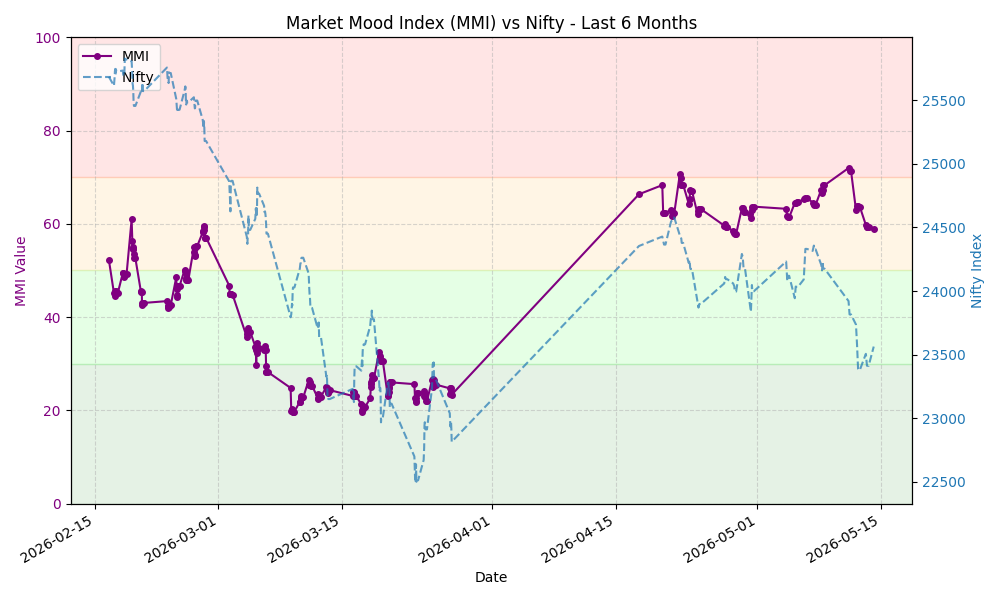
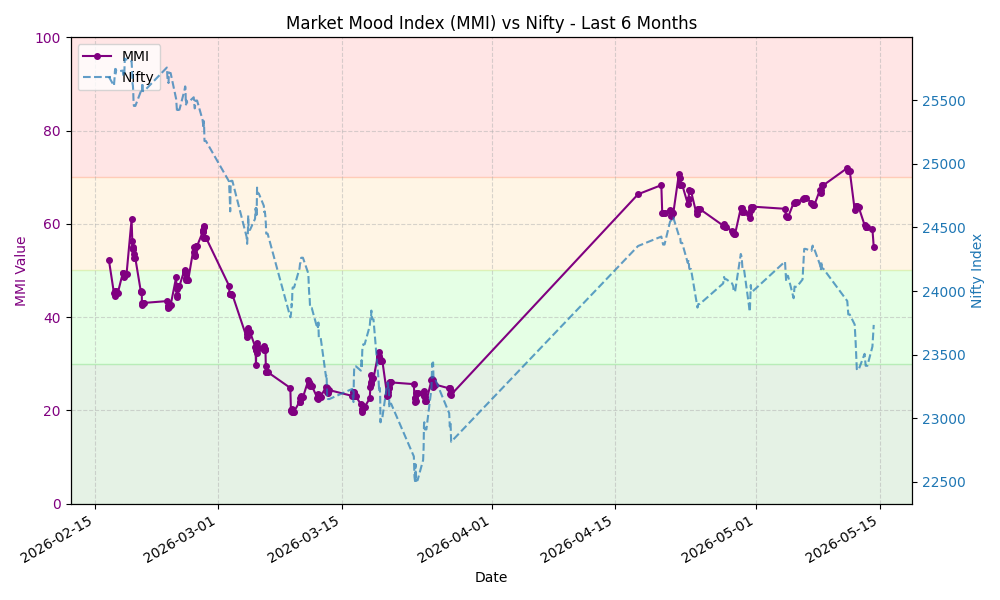
Update MMI data and chart

diff --git a/README.md b/README.md
@@ -7,8 +7,8 @@ This repository automatically fetches the MMI value, stores the history, and gen
 
 ## Latest MMI Value
 
-**58.85** - **Greed**
-<small>Last Updated: 2026-05-14 04:06 UTC</small>
+**55.09** - **Greed**
+<small>Last Updated: 2026-05-14 07:39 UTC</small>
 
 ## MMI Trend (Last 30 Days)
 